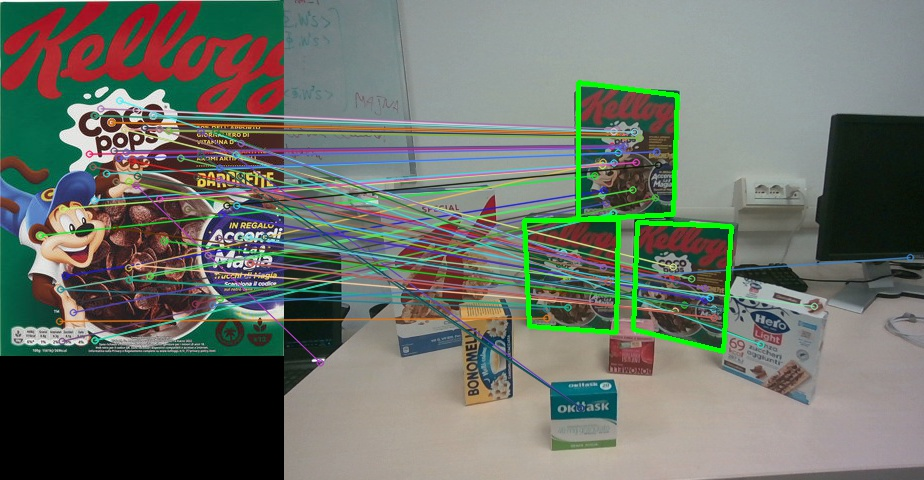
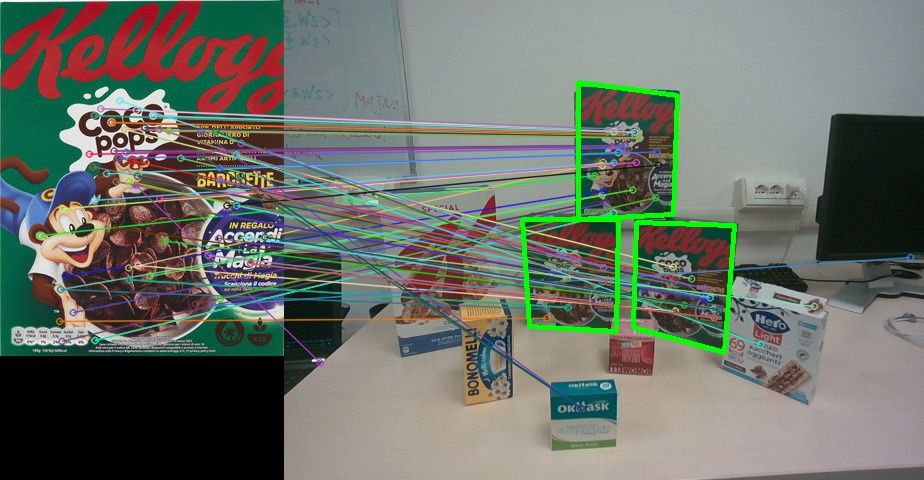
added time elapsed measuring

Changed region(s): [[0.6061, 0.4375, 0.8182, 0.75], [0.5455, 0.4375, 0.6364, 0.625], [0.6667, 0.4688, 0.697, 0.5938]]

diff --git a/customRansac.py b/customRansac.py
@@ -100,7 +100,7 @@ def customFindHomography(obj,scene, thresh):
             finalH = h
             finalMask = mask
 
-        print ("Corr size: ", len(corr), " NumInliers: ", len(inliers), "Max inliers: ", len(maxInliers))
+        #print ("Corr size: ", len(corr), " NumInliers: ", len(inliers), "Max inliers: ", len(maxInliers))
 
         if len(maxInliers) > (len(corr)*thresh):
             break
@@ -177,9 +177,9 @@ def customFindHomography3D(obj, scene, point_cloud, thresh):
             distance = pointPlaneDistance(plane, point4)
             if(distance < plane_error):
                 point_on_plane = True;
-                print("Plane found")
+                #print("################################Plane found#####################################")
             #else:
-            #    print("plane not found")
+                #print("------------------------------------------------------Plane not found----------------------------------------------------------")
 
         #call the homography function on those points
         h = calculateHomography(randomFour)
@@ -199,7 +199,7 @@ def customFindHomography3D(obj, scene, point_cloud, thresh):
             finalH = h
             finalMask = mask
 
-        print ("Corr size: ", len(corr), " NumInliers: ", len(inliers), "Max inliers: ", len(maxInliers))
+        #print ("Corr size: ", len(corr), " NumInliers: ", len(inliers), "Max inliers: ", len(maxInliers))
 
         if len(maxInliers) > (len(corr)*thresh):
             break

diff --git a/template_matching_1.py b/template_matching_1.py
@@ -4,6 +4,7 @@ import argparse
 import numpy.ma as ma
 from customRansac import customFindHomography
 from customRansac import customFindHomography3D
+import time
 
 img_scene = cv.imread("3D/1/rgb_image.jpg")
 img_object = cv.imread("Templates3/barchette_intera.jpg")
@@ -47,8 +48,14 @@ while((oldSize != newSize) and len(good_matches) >= 4):
         obj[i,1] = keypoints_obj[good_matches[i].queryIdx].pt[1]
         scene[i,0] = keypoints_scene[good_matches[i].trainIdx].pt[0]
         scene[i,1] = keypoints_scene[good_matches[i].trainIdx].pt[1]
+
+    start = time.time()
     #cv.findHomography(obj, scene, cv.RANSAC, confidence = 0.995, ransacReprojThreshold=5)
-    H, mask =  customFindHomography3D(obj, scene, point_cloud, 0.7)
+    H, mask =  customFindHomography(obj, scene, 0.7)
+    #H, mask =  customFindHomography3D(obj, scene, point_cloud, 0.7)
+    end = time.time()
+    print("time elapsed:")
+    print(end - start)
     # H homography from template to scene
     H = np.asarray(H)
     #Take points from the scene that fits with the homography
